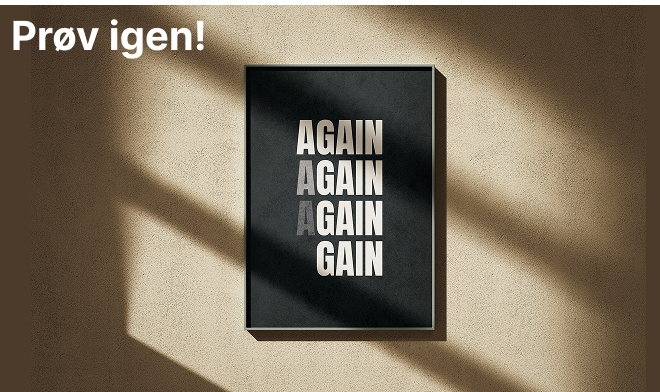
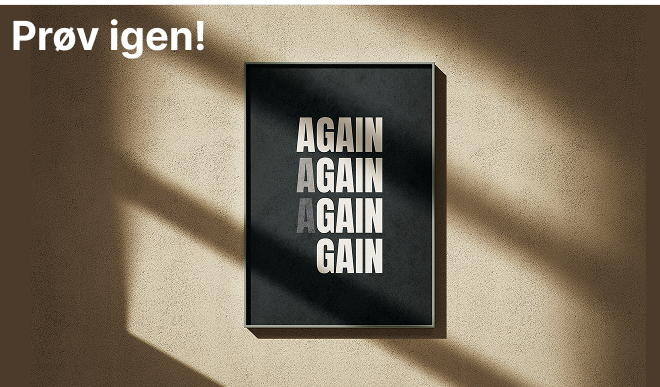
Detaljer, scenario jumps mm

diff --git a/js/script.js b/js/script.js
@@ -1,4 +1,4 @@
-// Start knap
+// Start
 const btn = document.querySelector(".container_faresignaler .btn");
 let previousStage = document.querySelector(".container_faresignaler").cloneNode(true);
 
@@ -13,7 +13,7 @@ const buildStage = (h2Text, pText, btnsText, imagePath, fa, currentSection) => {
 
     // game-section wrapper div oprettet en div for at style game section scss
     const content = document.createElement("div");
-    content.classList.add("game-content");
+    // content.classList.add("game-content"); ser lige om det stopper flimren
 
     // overskrift
     const h2 = document.createElement("h2");
@@ -76,81 +76,83 @@ const nextStage = (e) => {
 
     switch (e.target.textContent) {
 
-        case "Start": // teskten på knapperne
+        case "Spot phishing": // teskten på knapperne
             h2Text = "Du modtager mail fra SU kontoret."; // Overskrift hvad sker der 
-            imagePath ="img/SUmail.png";                    // img 
-            pText = "Hvordan vælger du at handle?";         // instruktioner eller selve scenarioet 
+            pText = "Hvordan vælger du at handle?";  
+            imagePath ="img/SUmail.png";             // instruktioner eller selve scenarioet 
             btnsText = ["Åbner", "Ignorere", "Tjekker sender"]; // knap mulighederne 
            
             break;
 
         case "Åbner":
-            h2Text = "Ups det var et Phishing forsøg!";
+            h2Text = "Ups! Du blev udsat for phishing!";
+            pText = "Linket førte til en falsk hjemmeside, hvor dine loginoplysninger blev stjålet.";
             imagePath ="img/scam.png";
-            pText = "Du har klikket et malicious link og dine data er stålet.";
             btnsText = ["Start Over", "Meld til IT"];
             break;
 
         case "Ignorere":
-            h2Text = "Godt valg";
-            pText = "Du undgik et phishing forsøg.";
+            h2Text = "God beslutning";
+            
+            pText = "Du undgik at interagere med en mistænkelig mail og beskyttede dine oplysninger.";
+            imagePath ="img/ThumbsUp.png";
             btnsText = ["Næste"];
             break;
 
-        case "Tjekker sender":
-            h2Text = "Godt set!";
-            pText = "E-mailen var fake. Du undgik et phishing forsøg.";
+        case "Tjekker afsender":
+            h2Text = "Godt observeret!";
+            pText = "Afsenderens adresse virkede mistænkelig. Ved at undersøge mailen nærmere undgik du phishing."; 
+            imagePath ="img/verify.png";
             btnsText = ["Næste"];
             break;
 
         case "Start Over": 
-            h2Text = "Prøv igen det en læringsprocess";
+            h2Text = "Prøv igen";
+            pText = "Phishing-forsøg kan være svære at opdage. Vær opmærksom på faresignaler som mistænkelige links og presserende beskeder.";
             imagePath ="img/Motivation.png";     
-            pText = "Vær ekstra opmærksom på faresignalerne. Det kan spare dig for en masse fustration fremover.";
             btnsText = ["Fortsæt"];
             break;
 
         case "Fortsæt": 
-            h2Text = "Du har modtager en mail fra Netflix som kræver handling.";
+            h2Text = "Du har modtaget en mail fra Netflix som kræver handling.";
             pText = "Hvordan vælger du at handle? ";
-            imagePath ="img/SUmail.png";     
-            btnsText = ["Åbner", "Ignorere", "Tjekker sender"];
+            imagePath ="img/Netflix.png";     
+            btnsText = ["Åbner", "Ignorere", "Tjekker afsender"];
             break;
 
-            //meld til IT
             case "Meld til IT": 
-            h2Text = "Fornuftigt handlet!. Scam skal altid meldes til IT afdelingen.";
-            pText = "Fortsæt endelig din læringsprocess.";
-            imagePath ="img/SUmail.png";     
+            h2Text = "God sikkerhedsadfærd";
+            pText = "Ved at melde hændelsen til IT-afdelingen hjælper du med at beskytte både dig selv og andre studerende.";
+            imagePath ="img/ItSupport.png"; 
             btnsText = ["Næste", "Afslut"];
             break;
 
             case "Næste": 
-            h2Text = "Du modtager et opkald fra din bank som kræver dankort oplysninger Øjeblikkeligt.";
-            pText = "Hvad gør du?";
-            imagePath ="img/SUmail.png";     
+            h2Text = "Du modtager et opkald fra banken";
+            pText = "Personen i telefonen siger, at dit kort er blevet hacket og beder om dine kortoplysninger med det samme. Hvad gør du?";
+            imagePath ="img/call.png";     
             btnsText = ["Oplyser detaljer", "Lægger på"];
             break;
 
             
             case "Oplyser detaljer": 
-            h2Text = "Ups! Dine oplysnigner er blevet stålet. Du er udsat for Smishing som er en udbredt form for phishing forsøg.";
-            pText = "Hvad gør du?";
+            h2Text = "Dine oplysninger blev misbrugt";
+            pText = "Svindleren brugte dine kortoplysninger til at få adgang til din konto. Banken vil aldrig bede om følsomme oplysninger over telefonen. Hvad gør du?";
             imagePath ="img/SUmail.png";     
             btnsText = ["Meld til IT", "Næste scenario"];
             break;
 
             case "Lægger på": 
-            h2Text = "Fint handlet! Du var opmærksom og undgik et phishing forsøg (typen smishing som foregår enten via sms eller opkald).";
-            pText = "Fortsæt din læring";
+            h2Text = "Godt reageret";
+            pText = "Du genkendte faresignalerne og undgik et smishing-forsøg via telefon.";
             imagePath ="img/SUmail.png";     
             btnsText = ["Næste scenario"];
             break;
 
             case "Næste scenario":
-            h2Text = "Du modtager en SMS fra PostNord med et mistænkeligt link.";
-            pText = "Hvad gør du?";
-            imagePath ="img/SUmail.png";     
+            h2Text = "Du modtager en mail fra PostNord";
+            pText = "Hvad gør du?";    
+            imagePath ="img/Postnord.png"; 
             btnsText = ["Klikker på linket", "Ignorerer SMS"];
             break;
 
@@ -169,14 +171,11 @@ const nextStage = (e) => {
             break;
 
             case "Afslut": 
-            h2Text = "Du kan altid prøve igen senere og lære mere om phishing forsøg";
-            pText = "Er du i tvivl om du er blevet udsat for phishing - kontakt IT support.";
-            imagePath ="img/SUmail.png";     
+            h2Text = "Nu er du bedre klædt på til sikker adfærd online.";
+            pText = "Digitale trusler kan ramme alle. Ved at være opmærksom på faresignaler kan du beskytte dine data og handle mere sikkert online.";
+            imagePath ="img/SUmail.png";   
             btnsText = ["Tilbage"];
             break;
-
-            // Vil gerne have section .container_faresignaler tilbage. kun når der klikkes Tilbage (dvs lukke scenarioet og den gamle section html tilbage)
-           // har prøvet alt muligt;)
         
            case "Tilbage":
            if (previousStage) {

diff --git a/css/style.scss b/css/style.scss
@@ -281,6 +281,7 @@ body{
   padding-top: 70px;
   @include partial.shadow-hover-focus;
   display: none;// har lige sat display none- display block ind lad os se om det funger
+  min-height: 700px;
 
   &.active {
     display: flex;
@@ -335,6 +336,7 @@ body{
     background-color: partial.$bg-color;
     display: flex;
     flex-direction: column;
+    min-height: 700px;
   
   }
     
@@ -410,23 +412,17 @@ footer{
 // @media (max-width: 768px) {
   nav #bars {
     display: block;
-    font-size: 24px;
+    font-size: 26px;
     background: none;
+    margin: 1px;
+    padding: 1px;
     border: none;
     cursor: pointer;
     position: relative;
     z-index: 20;
+    
   }
 
-
-            // #bars{
-            //     display: flex;
-            //     border: none; /*Fjerner border fra button tag*/
-            //     background-color: transparent; /*Fjerner baggrundsfarve fra button tag*/
-            //     font-size: 2.3em;
-            //     color: partial.$primary-color;
-            //     cursor: pointer;
-            // }
 
             nav ul{//proever at rette bars
                 display: none; /*Fjerne nav links*/

diff --git a/css/style.css b/css/style.css
@@ -263,6 +263,7 @@ nav .navbar nav {
 }
 .container_faresignaler {
   display: none;
+  min-height: 700px;
 }
 .container_faresignaler.active {
   display: flex;
@@ -319,6 +320,7 @@ nav .navbar nav {
   background-color: #f0f0f0;
   display: flex;
   flex-direction: column;
+  min-height: 700px;
 }
 
 .game-buttons {
@@ -369,8 +371,10 @@ footer {
   }
   nav #bars {
     display: block;
-    font-size: 24px;
+    font-size: 26px;
     background: none;
+    margin: 1px;
+    padding: 1px;
     border: none;
     cursor: pointer;
     position: relative;

diff --git a/index.html b/index.html
@@ -104,7 +104,7 @@
             </ul>
 
             <!-- <a href="spil.html"></a> -->
-            <button class="btn">Start</button>
+            <button class="btn">Spot phishing</button>
           </div>
 
         </section>
